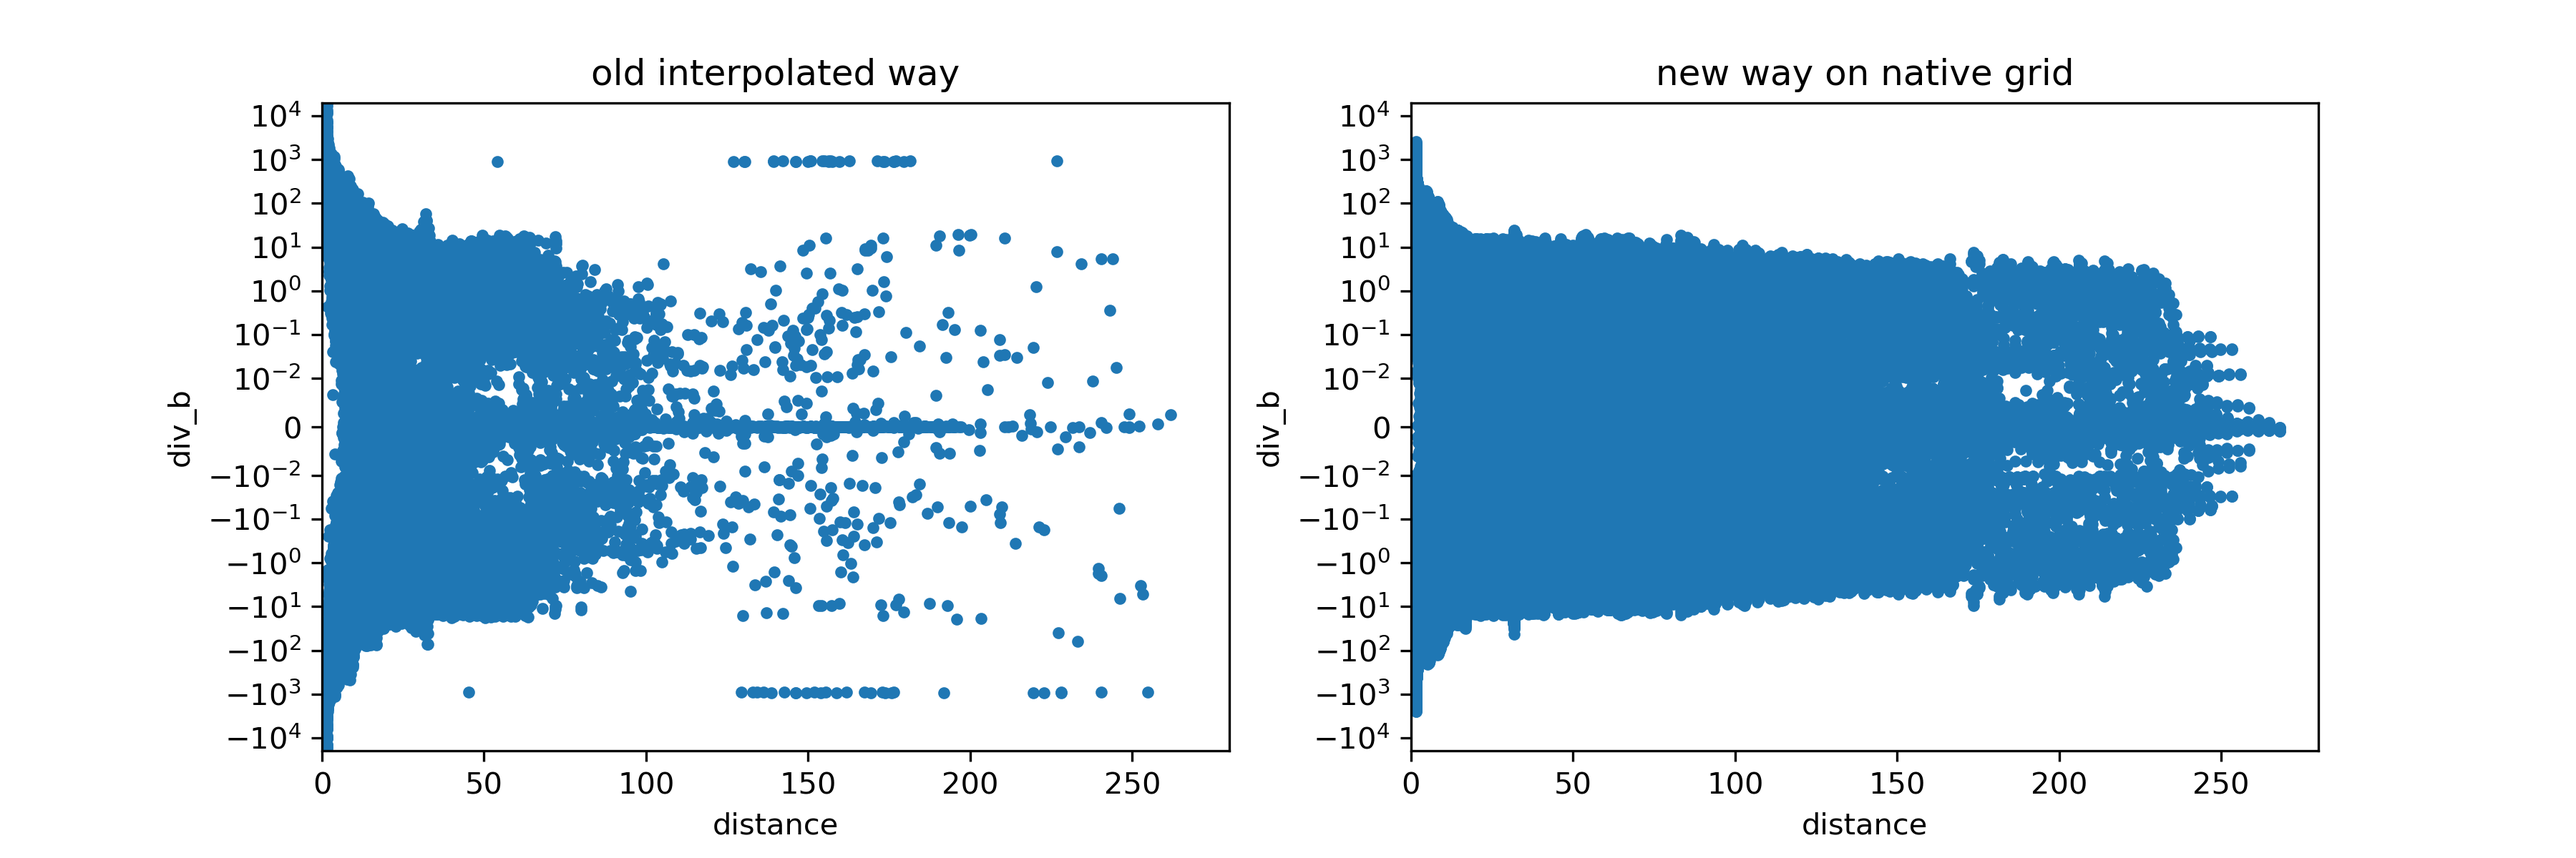
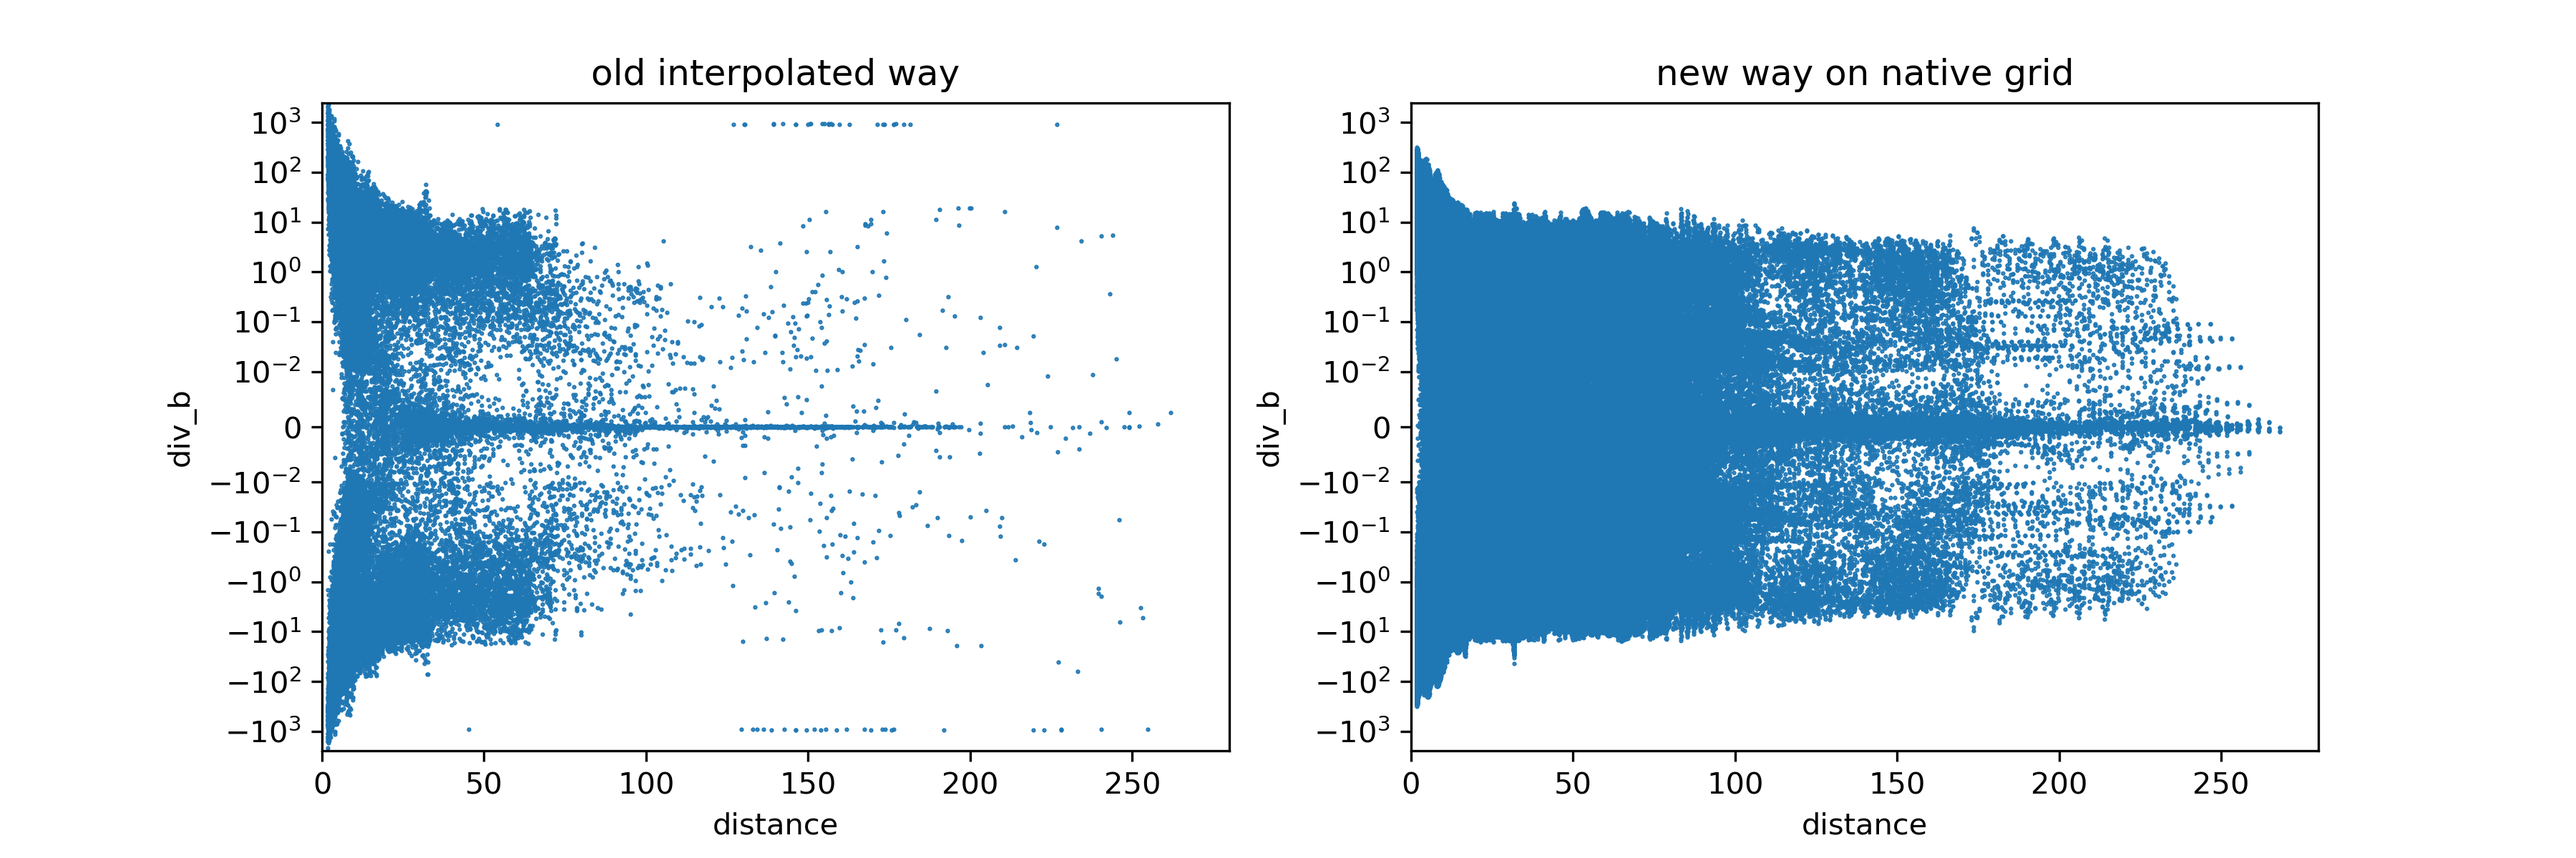
update nat grid plts

diff --git a/images/native_vs_interpolated/plots.md b/images/native_vs_interpolated/plots.md
@@ -5,15 +5,36 @@ The 'old interpolated way' is using the VTK library interpolation, not Kameleon.
 
 b and b1 are in nanotesla, j in microamperes per meter squared. Divergence uses units of 1/R_E
 
-## divergence B1
+all points in the native grid are used except those at the edges/boundaries of a block,
+and those within 1.8 R_E from earths center.
+
+"jR" here is the attempt to reconstruct "j" from "b1". This is done by 
+taking curl_b1, and dividing by mu_0 = 8014.956840
+(vacuum permeability in the apropriate units)
+
+## divergence of b1
 
 ![](div_b1.png)
 
-## divergence B
+## divergence of b
 
 ![](div_b.png)
 
-## divergence J
+## divergence of j
 
 ![](div_j.png)
 
+## norm (magnitude) of j
+
+![](norm_j.png)
+
+## norm (magnitude) of jR
+
+![](norm_jR.png)
+
+## error in jR
+
+![](norm_j.png)
+
+> this is the norm (magnitude) of the vector difference between jR and j,
+> and thus is still in microamperes per meter squared.
